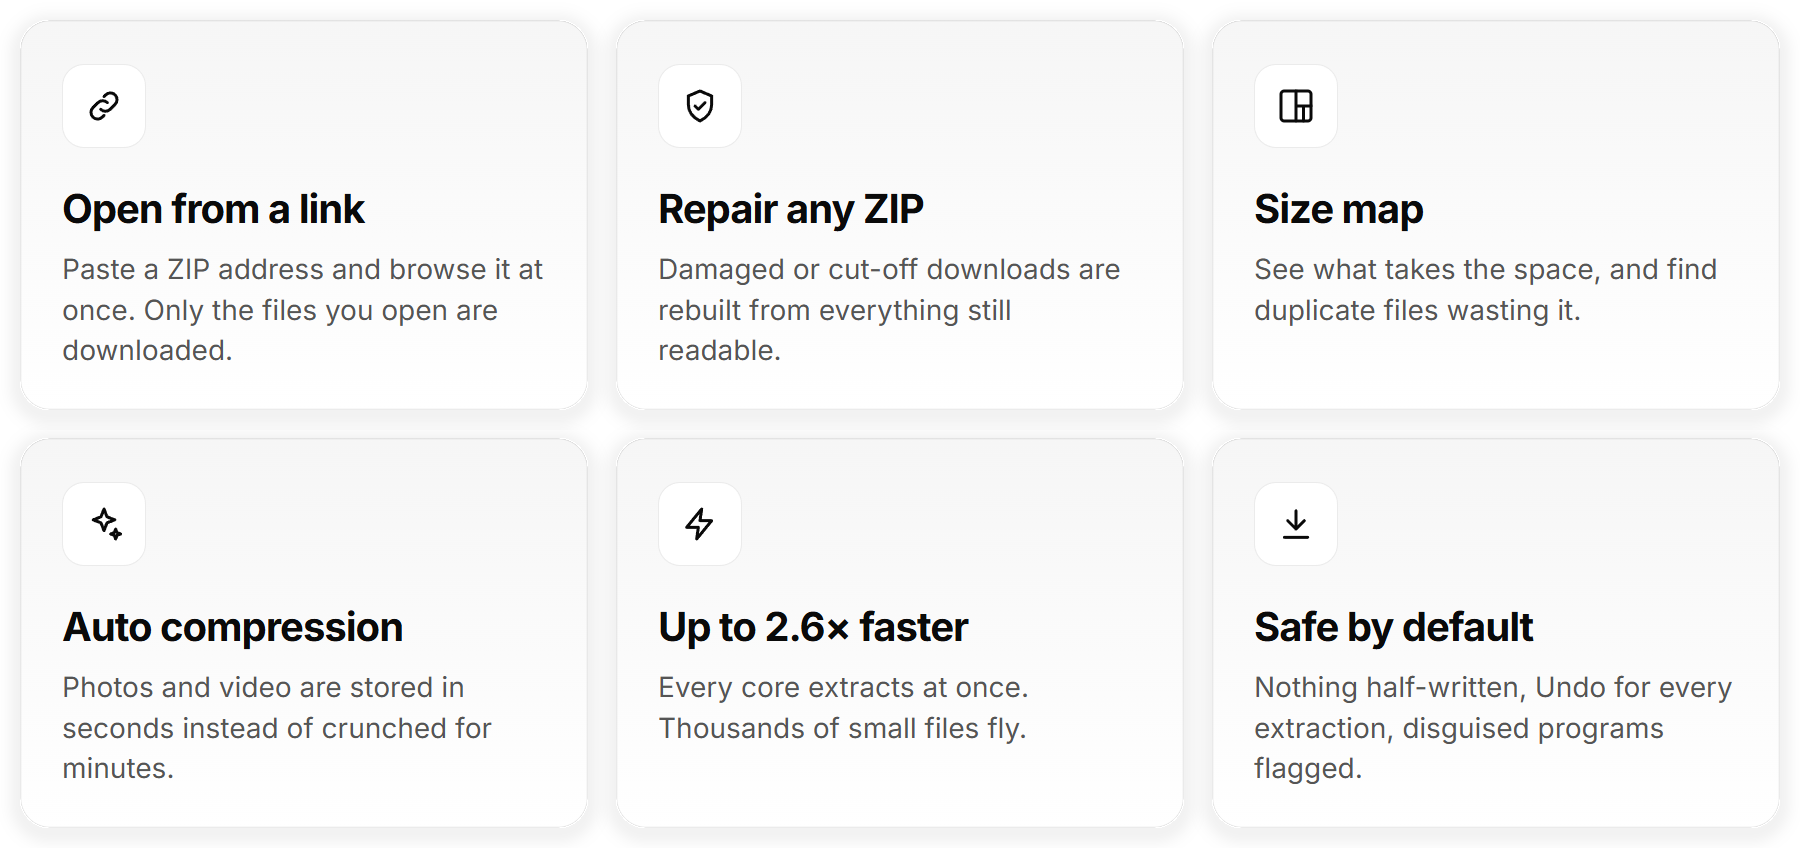
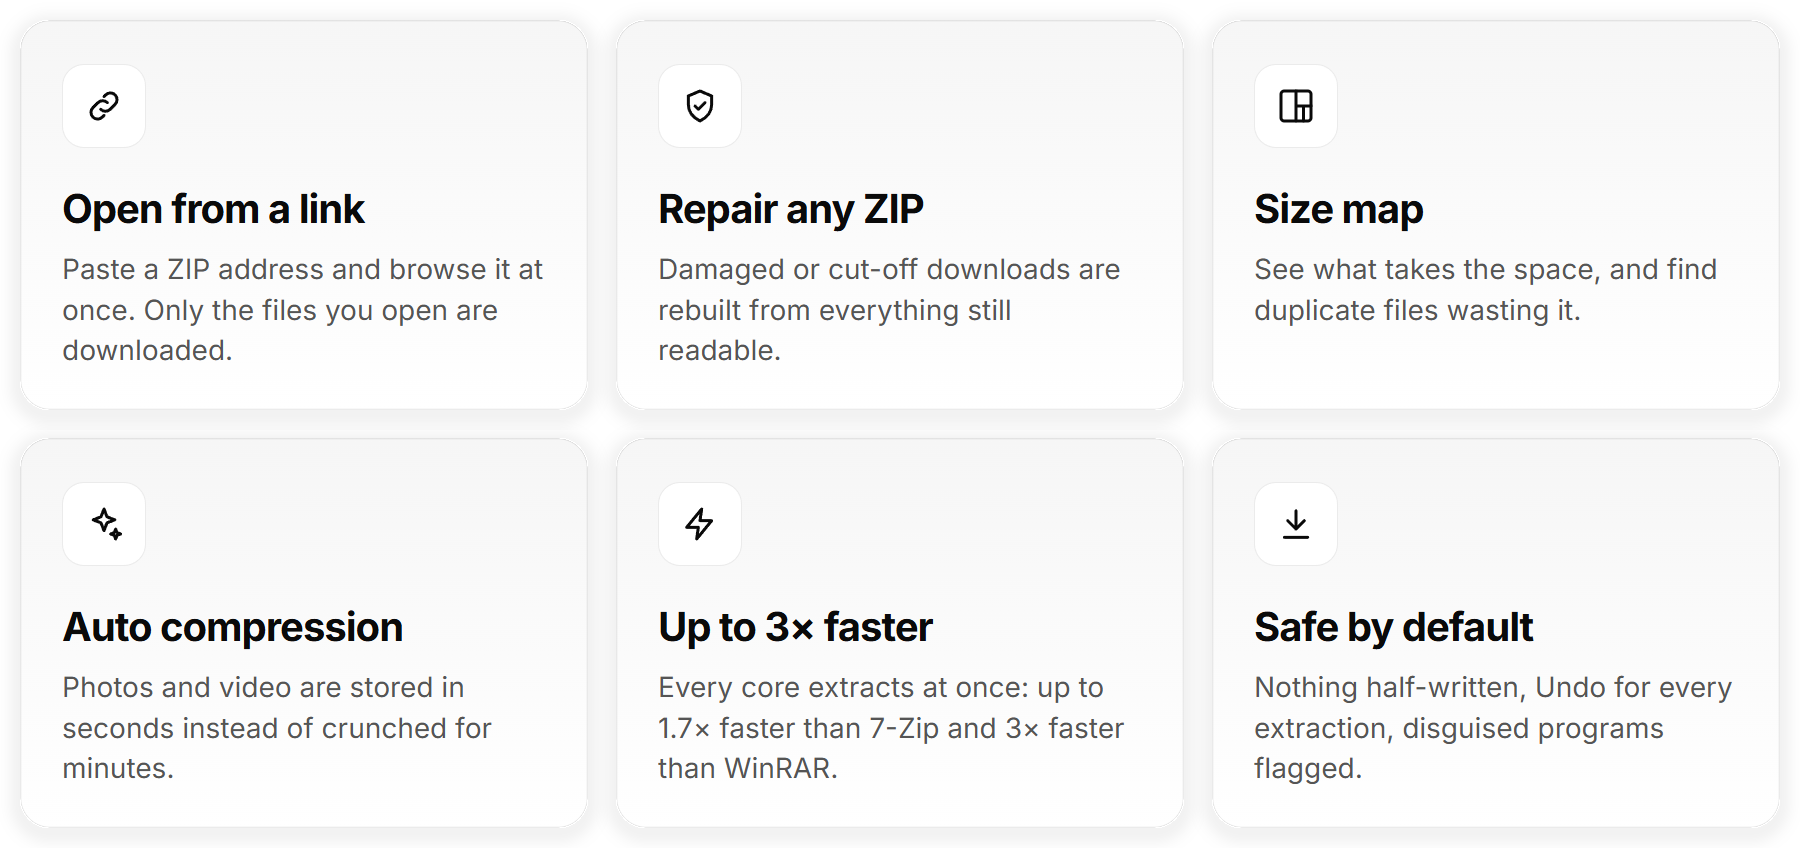
Compare speed with WinRAR too: three-way chart and table from a fresh benchmark

Changed region(s): [[0.3422, 0.7972, 0.6222, 0.9198], [0.4044, 0.7052, 0.5289, 0.7665]]

diff --git a/README.md b/README.md
@@ -14,33 +14,35 @@
 
 <picture>
 <source media="(prefers-color-scheme: dark)" srcset="assets/features-dark.png">
-<img src="assets/features-light.png" alt="Open from a link. Repair any ZIP. Size map. Auto compression. Up to 2.6 times faster. Safe by default." width="100%">
+<img src="assets/features-light.png" alt="Open from a link. Repair any ZIP. Size map. Auto compression. Up to 3 times faster. Safe by default." width="100%">
 </picture>
 
-## Up to 2.6× faster than 7-Zip
+## Faster than 7-Zip and WinRAR
 
-Anchor extracts on every processor core at once, so archives with many files finish in well under half the time. With a few large files, the two are even.
+Anchor extracts on every processor core at once. With many files that makes it up to **1.7× faster than 7-Zip** and up to **3× faster than WinRAR**, and on one 7Z archive WinRAR needed over two minutes where Anchor took five seconds. WinRAR stays quickest on its own RAR format, and with a few large files all three are close.
 
 <picture>
 <source media="(prefers-color-scheme: dark)" srcset="assets/speed-dark.png">
-<img src="assets/speed-light.png" alt="Extraction time, Anchor against 7-Zip 26.04. 4,000 small files: ZIP 1.4 s against 3.7 s, TAR.ZST 1.6 s against 4.0 s, TAR.GZ 1.7 s against 3.7 s, 7Z 3.7 s against 3.8 s. 8 large files: about the same for every format." width="100%">
+<img src="assets/speed-light.png" alt="Extraction time for Anchor, 7-Zip 26.04 and WinRAR 7.23. 4,000 small files: ZIP 3.2, 5.3 and 3.5 seconds; 7Z 5.2, 5.4 seconds and over 2 minutes; RAR 4.3, 4.4 and 2.5 seconds; TAR.GZ 3.0, 4.7 and 8.9 seconds; TAR.ZST 3.1, 4.9 and 9.1 seconds. 8 large files: all within a second." width="100%">
 </picture>
 
 <details>
 <summary>See the numbers</summary>
 
-| Archive | Anchor | 7-Zip 26.04 | |
-| :-- | --: | --: | :-- |
-| 4,000 small files · ZIP | 1.43 s | 3.67 s | **2.6× faster** |
-| 4,000 small files · TAR.ZST | 1.60 s | 3.98 s | **2.5× faster** |
-| 4,000 small files · TAR.GZ | 1.73 s | 3.67 s | **2.1× faster** |
-| 4,000 small files · 7Z | 3.69 s | 3.78 s | about the same |
-| 8 large files, 320 MB · ZIP | 0.51 s | 0.50 s | about the same |
-| 8 large files, 320 MB · 7Z | 0.27 s | 0.26 s | about the same |
-| 8 large files, 320 MB · TAR.GZ | 0.76 s | 0.71 s | about the same |
-| 8 large files, 320 MB · TAR.ZST | 0.36 s | 0.33 s | about the same |
+| Archive | Anchor | 7-Zip 26.04 | WinRAR 7.23 |
+| :-- | --: | --: | --: |
+| 4,000 small files · ZIP | **3.19 s** | 5.29 s | 3.49 s |
+| 4,000 small files · 7Z | **5.21 s** | 5.38 s | over 2 min |
+| 4,000 small files · RAR | 4.28 s | 4.38 s | **2.53 s** |
+| 4,000 small files · TAR.GZ | **2.98 s** | 4.69 s | 8.86 s |
+| 4,000 small files · TAR.ZST | **3.11 s** | 4.93 s | 9.10 s |
+| 8 large files, 320 MB · ZIP | 0.54 s | **0.48 s** | 0.84 s |
+| 8 large files, 320 MB · 7Z | **0.28 s** | **0.28 s** | 0.40 s |
+| 8 large files, 320 MB · RAR | 0.24 s | **0.23 s** | 0.24 s |
+| 8 large files, 320 MB · TAR.GZ | 0.76 s | **0.70 s** | 1.15 s |
+| 8 large files, 320 MB · TAR.ZST | 0.40 s | 0.35 s | **0.30 s** |
 
-Measured on one PC with 24 cores, best of three runs, each tool extracting to an empty folder and producing the same files.
+Fastest in bold. Measured on one Windows PC with 24 cores: each tool extracted every archive three times in two separate sessions into an empty folder, producing the same files, and the best of the six runs counts. WinRAR was run from its own command line (`WinRAR.exe x`, `UnRAR.exe` for RAR). Runs over two minutes were stopped.
 
 </details>
 
@@ -48,7 +50,7 @@ Measured on one PC with 24 cores, best of three runs, each tool extracting to an
 
 | | **Anchor** | 7-Zip | WinRAR |
 | :-- | :--: | :--: | :--: |
-| Extracts many small files 2–2.6× faster | ✅ | — | — |
+| Extracts many files faster: up to 1.7× vs 7-Zip, 3× vs WinRAR | ✅ | — | — |
 | Opens a ZIP from a link without downloading it all | ✅ | — | — |
 | Repairs damaged ZIPs, even without recovery data | ✅ | — | ✅ |
 | Recovery data for any archive | ✅ | — | RAR only |
